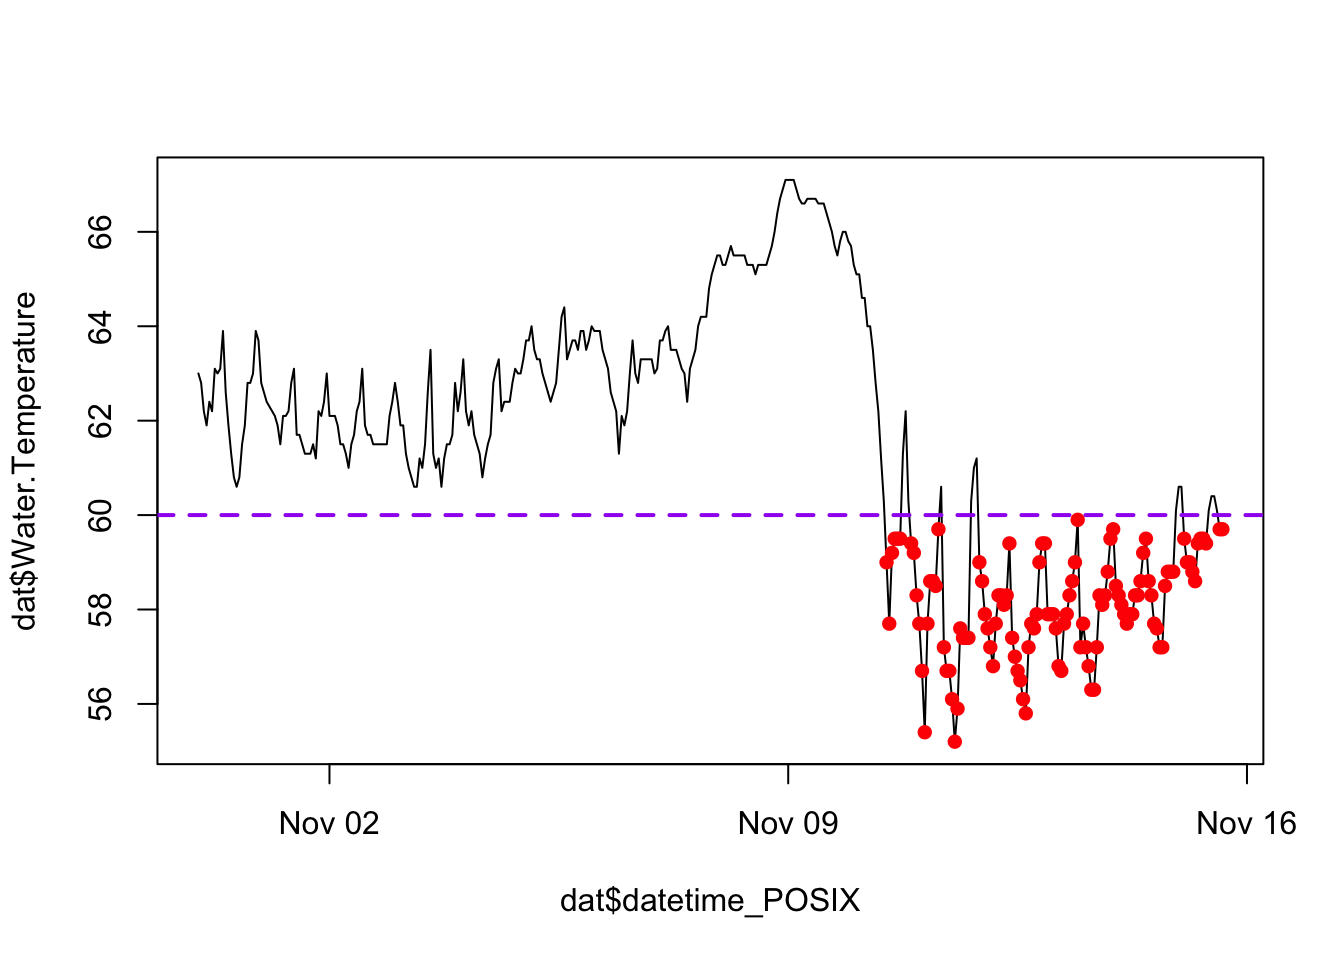
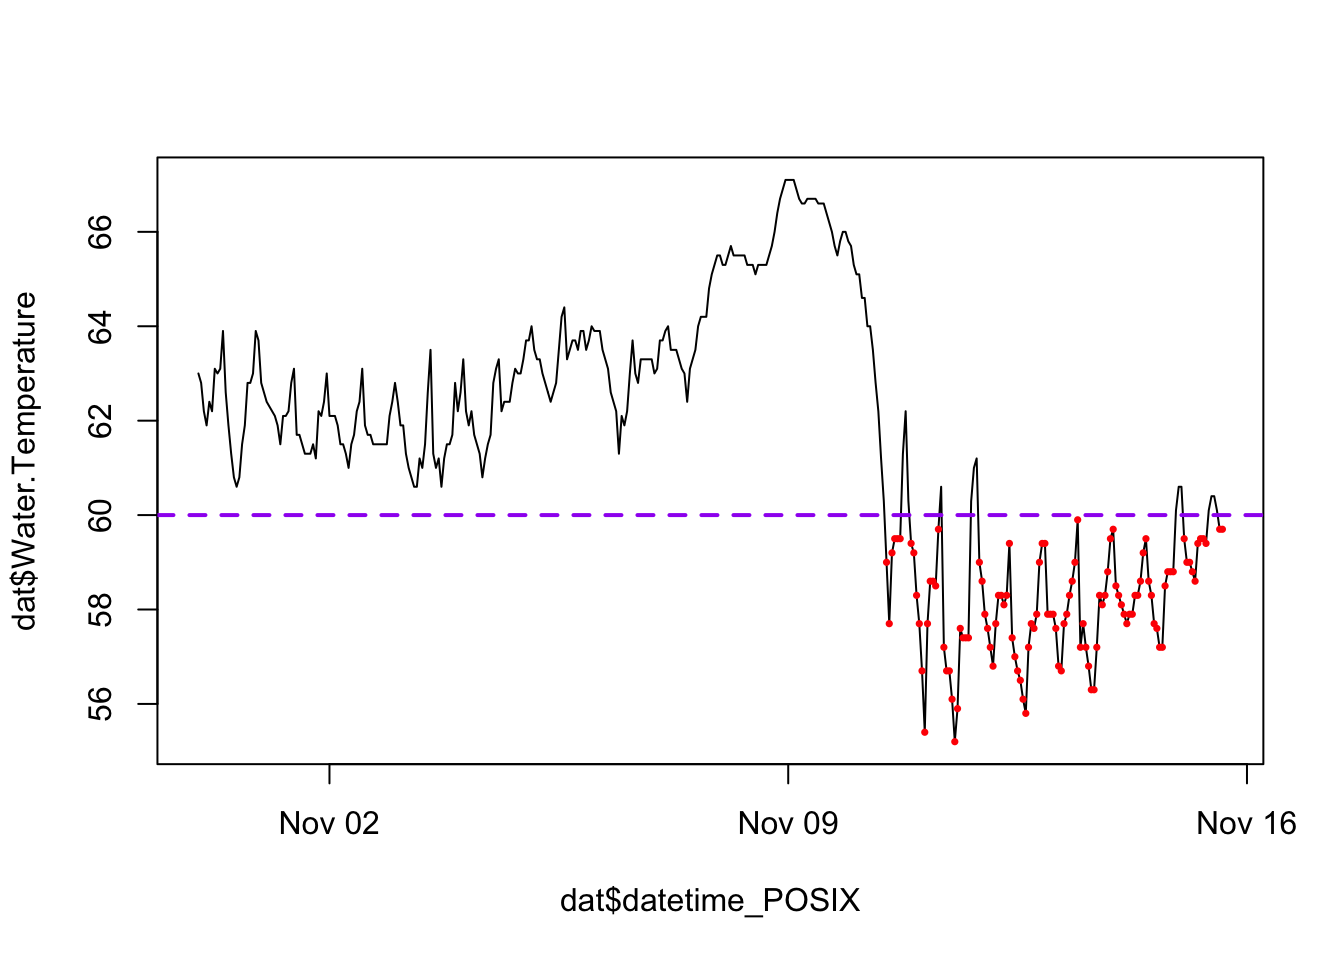
smaller dots

Changed region(s): [[0.6562, 0.5312, 0.9062, 0.7812]]

diff --git a/index.html b/index.html
@@ -193,7 +193,7 @@ pre > code.sourceCode > span > a:first-child::before { text-decoration: underlin
 <div class="sourceCode cell-code" id="cb3"><pre class="sourceCode r code-with-copy"><code class="sourceCode r"><span id="cb3-1"><a href="#cb3-1" aria-hidden="true" tabindex="-1"></a><span class="fu">plot</span>(dat<span class="sc">$</span>datetime_POSIX, dat<span class="sc">$</span>Water.Temperature, <span class="at">type =</span> <span class="st">'l'</span>)</span>
 <span id="cb3-2"><a href="#cb3-2" aria-hidden="true" tabindex="-1"></a><span class="fu">abline</span>(<span class="at">h =</span> <span class="dv">60</span>, <span class="at">lty =</span> <span class="dv">2</span>, <span class="at">lwd =</span> <span class="dv">2</span>, <span class="at">col =</span> <span class="st">"purple"</span>)</span>
 <span id="cb3-3"><a href="#cb3-3" aria-hidden="true" tabindex="-1"></a>dese <span class="ot">&lt;-</span> <span class="fu">which</span>(dat<span class="sc">$</span>Water.Temperature <span class="sc">&lt;</span> <span class="dv">60</span>)</span>
-<span id="cb3-4"><a href="#cb3-4" aria-hidden="true" tabindex="-1"></a><span class="fu">points</span>(dat<span class="sc">$</span>datetime_POSIX[dese], dat<span class="sc">$</span>Water.Temperature[dese], <span class="at">col =</span> <span class="st">"red"</span>, <span class="at">pch =</span> <span class="dv">16</span>)</span></code><button title="Copy to Clipboard" class="code-copy-button"><i class="bi"></i></button></pre></div>
+<span id="cb3-4"><a href="#cb3-4" aria-hidden="true" tabindex="-1"></a><span class="fu">points</span>(dat<span class="sc">$</span>datetime_POSIX[dese], dat<span class="sc">$</span>Water.Temperature[dese], <span class="at">col =</span> <span class="st">"red"</span>, <span class="at">pch =</span> <span class="dv">16</span>, <span class="at">cex =</span> <span class="fl">0.5</span>)</span></code><button title="Copy to Clipboard" class="code-copy-button"><i class="bi"></i></button></pre></div>
 </details>
 <div class="cell-output-display">
 <p><img src="index_files/figure-html/unnamed-chunk-3-1.png" class="img-fluid" width="672"></p>
